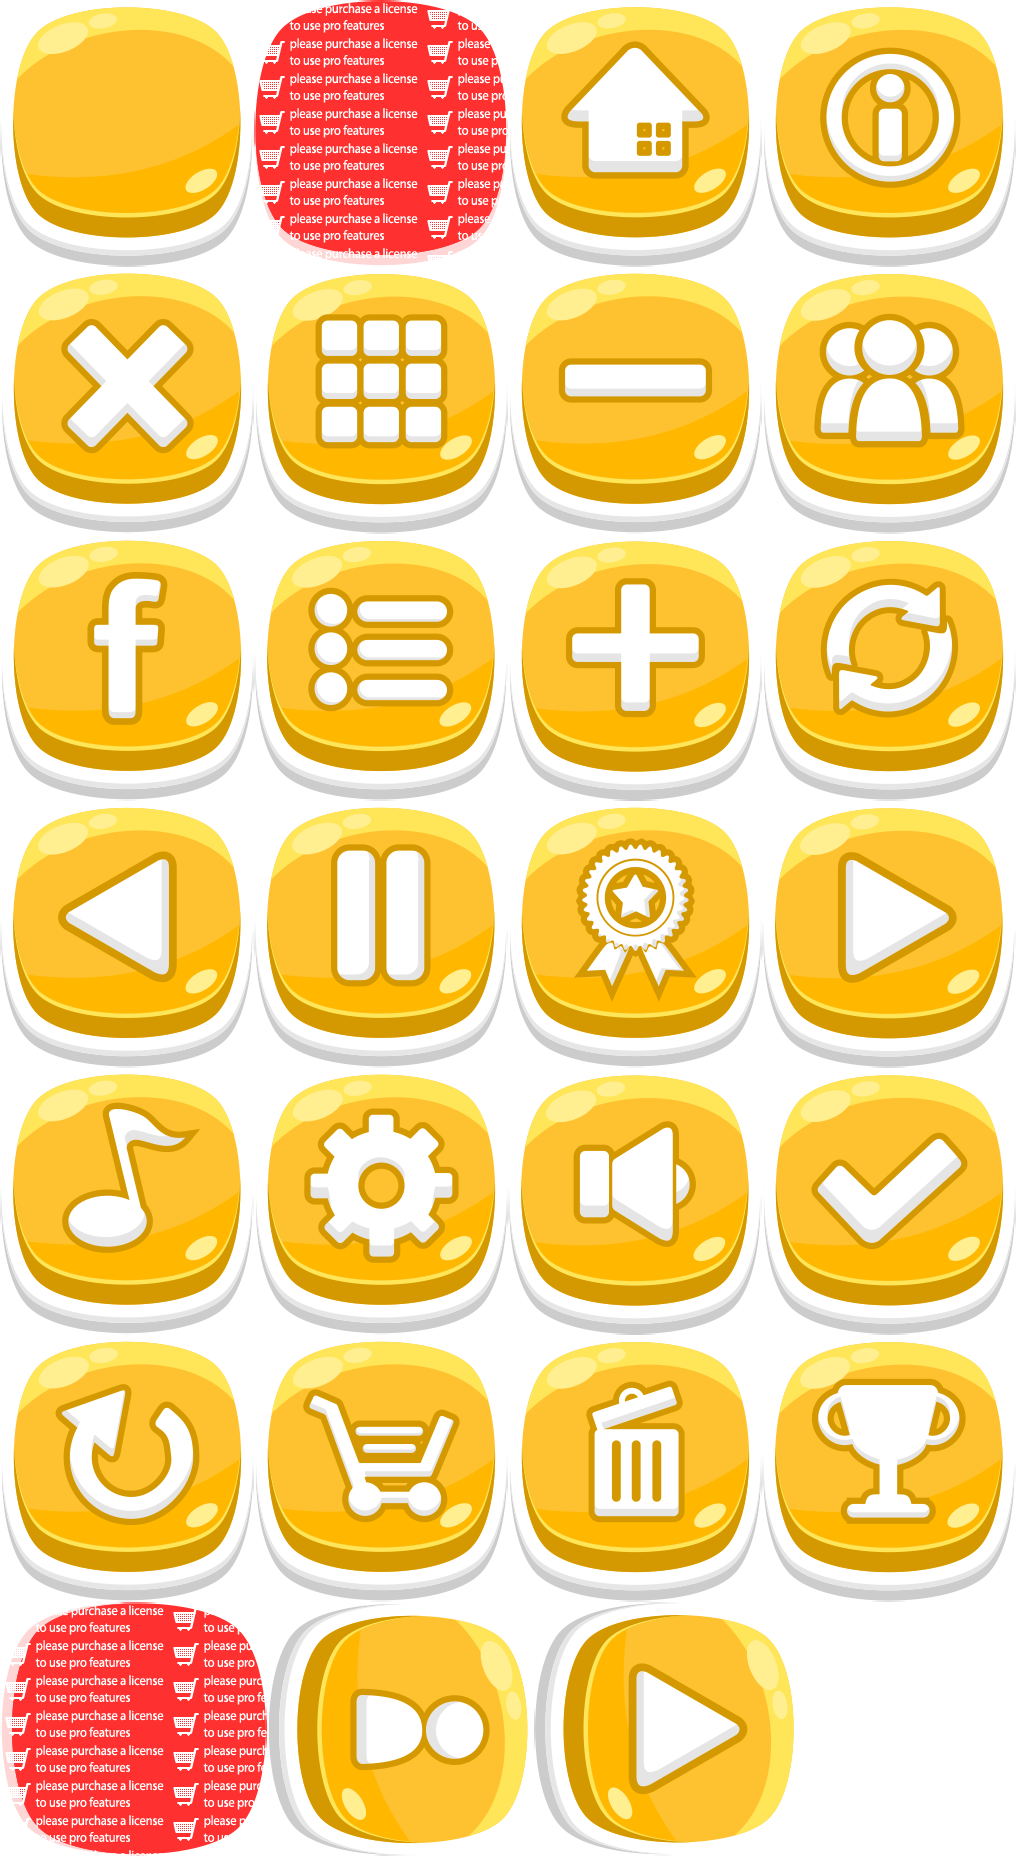
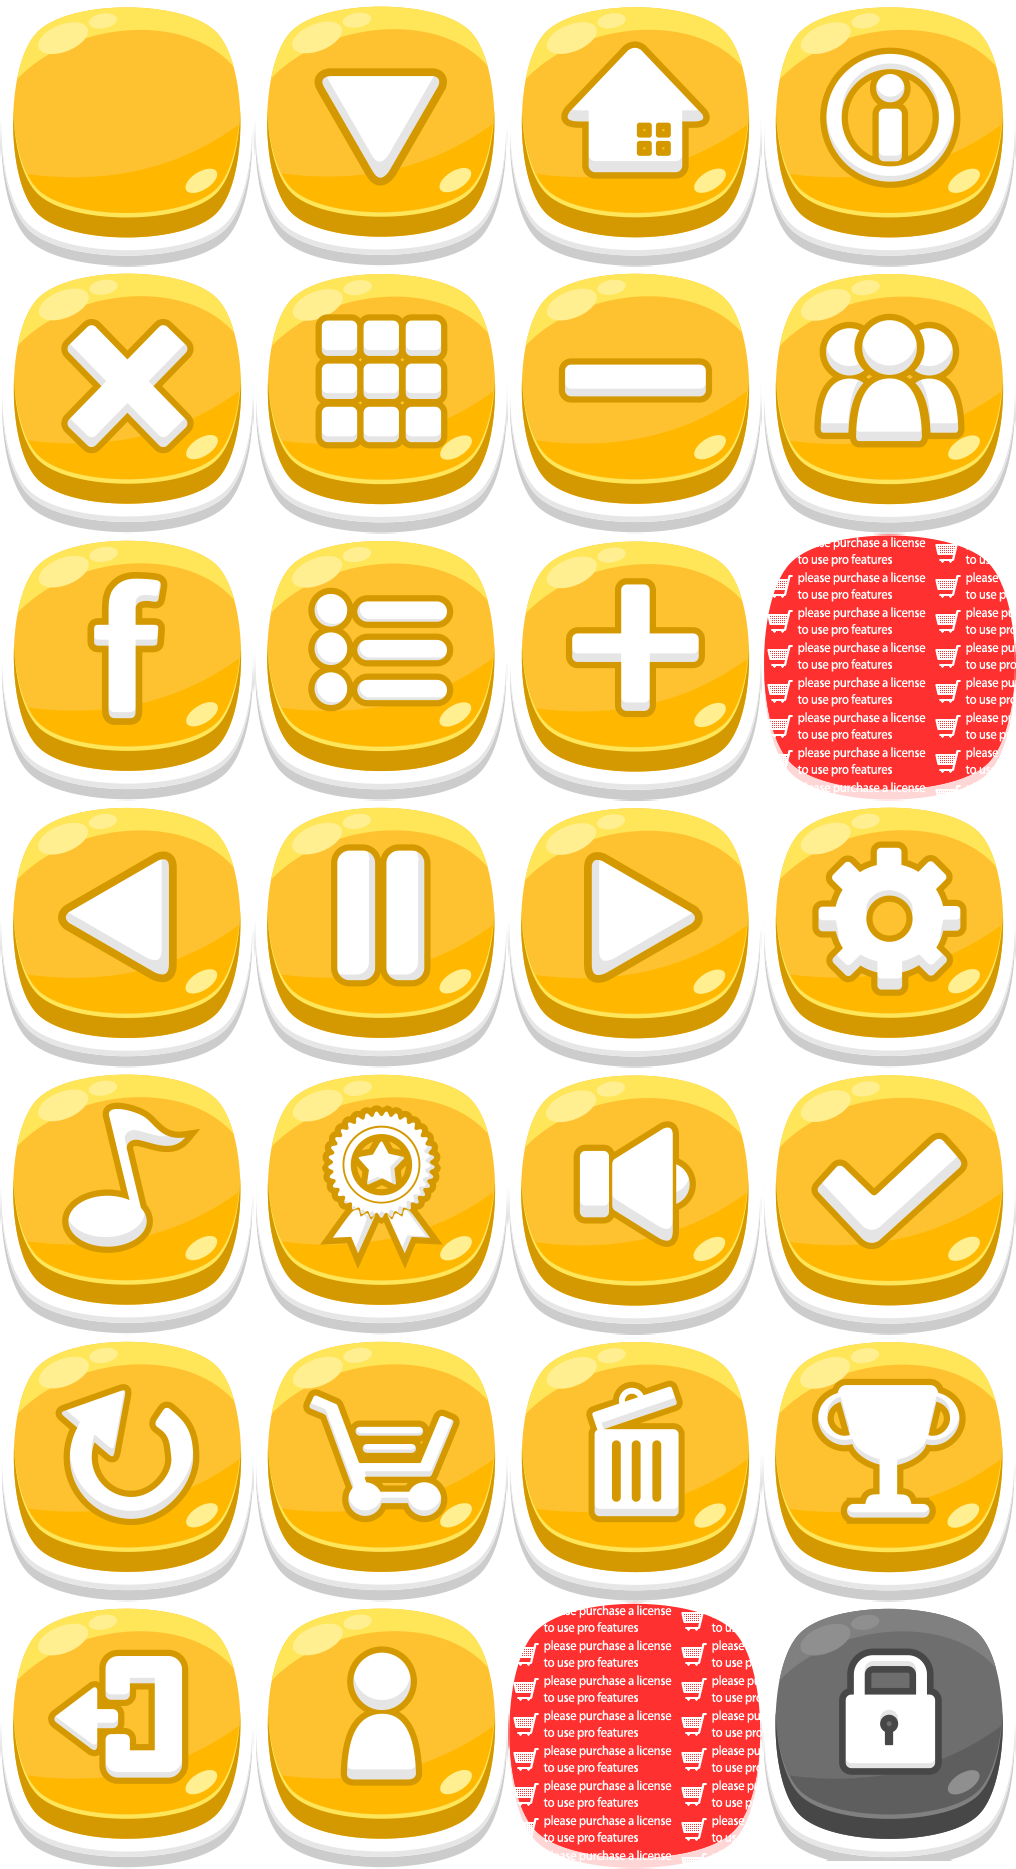
map state added and some assets loaded

diff --git a/src/app/states/mainMenu.js b/src/app/states/mainMenu.js
@@ -8,54 +8,87 @@ module.exports = function(game, scope) {
 			console.log('running from main menu state')
 		},
 		create() {
+			// create background and set to fit canvas
 			var background = game.add.image(0, 0, 'bg');
 			background.height = game.height;
 			background.width = game.width;
 
+			// create music button
 			var music = game.add.sprite(10,10,'buttons');
-			music.frame = 11;
+			music.frame = 12;
 			music.scale.setTo(0.3);
 
+			// create sound button
 			var sound = game.add.sprite(100,10,'buttons');
-			sound.frame = 22;
+			sound.frame = 23;
 			sound.scale.setTo(0.3);
 
+			// create facebook button
 			var facebook = game.add.sprite(910,10,'buttons');
 			facebook.frame = 3;
 			facebook.scale.setTo(0.3);
 
-			var play = game.add.sprite(250,550,'buttons');
-			play.frame = 18;
+
+			// create play button
+			var play = game.add.sprite(250,600,'buttons');
+			play.frame = 19;
 			play.scale.setTo(0.5);
 			play.inputEnabled = true;
 			play.anchor.set(0.5);
 			play.input.useHandCursor = true;
+			play.events.onInputOver.add(function() {
+				anim.text.overAdd(play, scope);
+			}, this);
+			play.events.onInputOut.add(function() {
+				anim.text.overRemove(play, scope);
+			}, this);
 			play.events.onInputDown.add(function() {
 				anim.text.pop(play, scope, function() {
 					utils.stateChange('map', scope);
 				});
 			}, this);
 
-			var trophie = game.add.sprite(400,550,'buttons');
-			trophie.frame = 25;
+			// create trophie button
+			var trophie = game.add.sprite(400,600,'buttons');
+			trophie.frame = 26;
 			trophie.scale.setTo(0.5);
 			trophie.inputEnabled = true;
 			trophie.anchor.set(0.5);
 			trophie.input.useHandCursor = true;
+			trophie.events.onInputOver.add(function() {
+				anim.text.overAdd(trophie, scope);
+			}, this);
+			trophie.events.onInputOut.add(function() {
+				anim.text.overRemove(trophie, scope);
+			}, this);
 
-			var ribbon = game.add.sprite(550,550,'buttons');
-			ribbon.frame = 17;
+			// create ribbon button
+			var ribbon = game.add.sprite(550,600,'buttons');
+			ribbon.frame = 18;
 			ribbon.scale.setTo(0.5);
 			ribbon.inputEnabled = true;
 			ribbon.anchor.set(0.5);
 			ribbon.input.useHandCursor = true;
+			ribbon.events.onInputOver.add(function() {
+				anim.text.overAdd(ribbon, scope);
+			}, this);
+			ribbon.events.onInputOut.add(function() {
+				anim.text.overRemove(ribbon, scope);
+			}, this);
 
-			var settings = game.add.sprite(700,550,'buttons');
-			settings.frame = 19;
+			// create settings button
+			var settings = game.add.sprite(700,600,'buttons');
+			settings.frame = 20;
 			settings.scale.setTo(0.5);
 			settings.inputEnabled = true;
 			settings.anchor.set(0.5);
 			settings.input.useHandCursor = true;
+			settings.events.onInputOver.add(function() {
+				anim.text.overAdd(settings, scope);
+			}, this);
+			settings.events.onInputOut.add(function() {
+				anim.text.overRemove(settings, scope);
+			}, this);
 
 			anim.state.fadeIn(this);
 		},

diff --git a/src/app/modules/anims.js b/src/app/modules/anims.js
@@ -3,12 +3,12 @@ var self = {};
 self.text = {
 	pop: function(object, scope, callback) {
 		var tweenGrow = scope.game.add.tween(object.scale).to({
-			x: 1.4,
-			y: 1.4
+			x: 0.8,
+			y: 0.8
 		}, 150, "Quart.easeIn");
 		var tweenShrink = scope.game.add.tween(object.scale).to({
-			x: 1,
-			y: 1
+			x: 0.5,
+			y: 0.5
 		}, 150, "Quart.easeOut");
 		if (callback) tweenShrink.onComplete.add(callback);
 		return tweenGrow.chain(tweenShrink)
@@ -16,15 +16,15 @@ self.text = {
 	},
 	overAdd: function(object, scope) {
 		return scope.game.add.tween(object.scale).to({
-			x: 1.15,
-			y: 1.15
+			x: 0.6,
+			y: 0.6
 		}, 100, "Quart.easeIn")
 		.start();
 	},
 	overRemove: function(object, scope) {
 		return scope.game.add.tween(object.scale).to({
-			x: 1,
-			y: 1
+			x: 0.5,
+			y: 0.5
 		}, 100, "Quart.easeOut")
 		.start();
 	}

diff --git a/src/app/states/map.js b/src/app/states/map.js
@@ -8,6 +8,17 @@ module.exports = function(game, scope) {
 			console.log('running from map state')
 		},
 		create() {
+
+			// create background
+			var background = game.add.image(0, 0, 'bg');
+			background.height = game.height;
+			background.width = game.width;
+
+			// create banner
+			var banner = game.add.image(game.width / 2, game.height / 2, 'mapBanner');
+			banner.scale.setTo(0.7);
+			banner.anchor.setTo(0.5);
+
 			anim.state.fadeIn(this);
 		},
 		update() {

diff --git a/src/app/states/preloader.js b/src/app/states/preloader.js
@@ -21,6 +21,7 @@ module.exports = function(game, scope) {
                 this.game.load.start();
                 // Load Images
                 game.load.image('bg', 'images/bg.png');
+                game.load.image('mapBanner', 'images/mapBanner.png');
 				game.load.atlas('buttons', 'images/buttons.png', 'images/buttons.json', Phaser.Loader.TEXTURE_ATLAS_JSON_HASH);
             },
 
